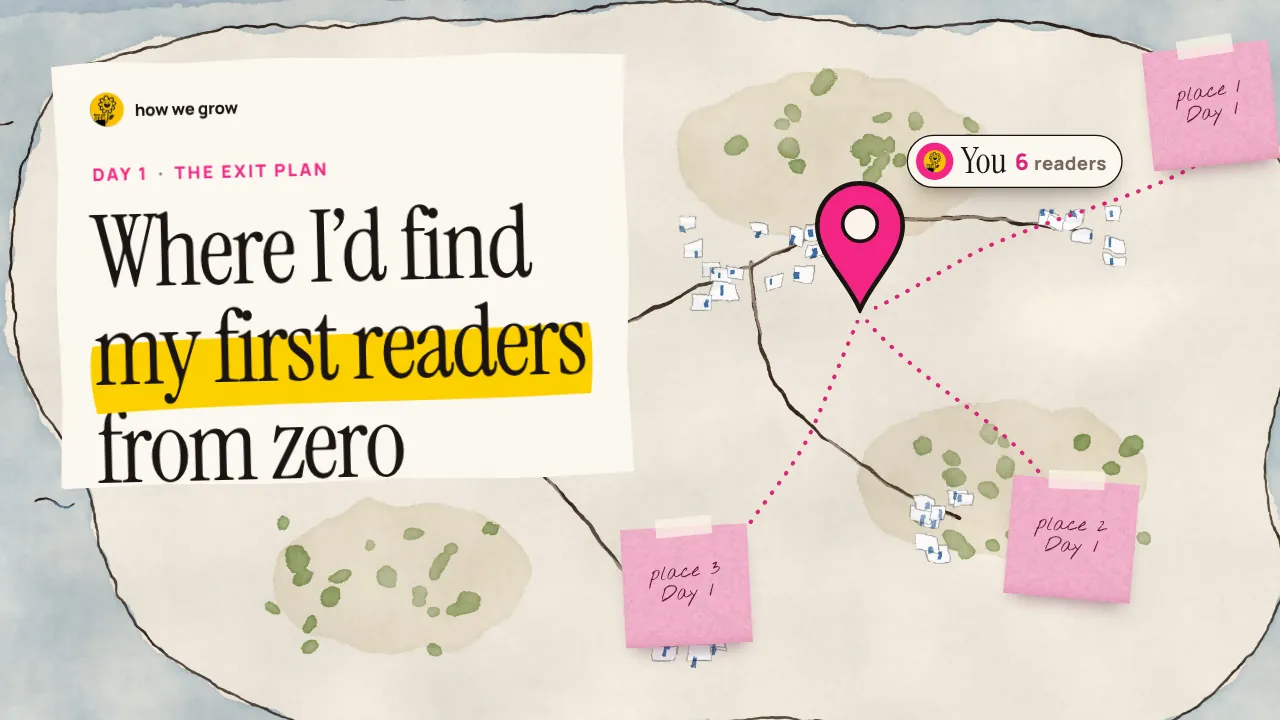
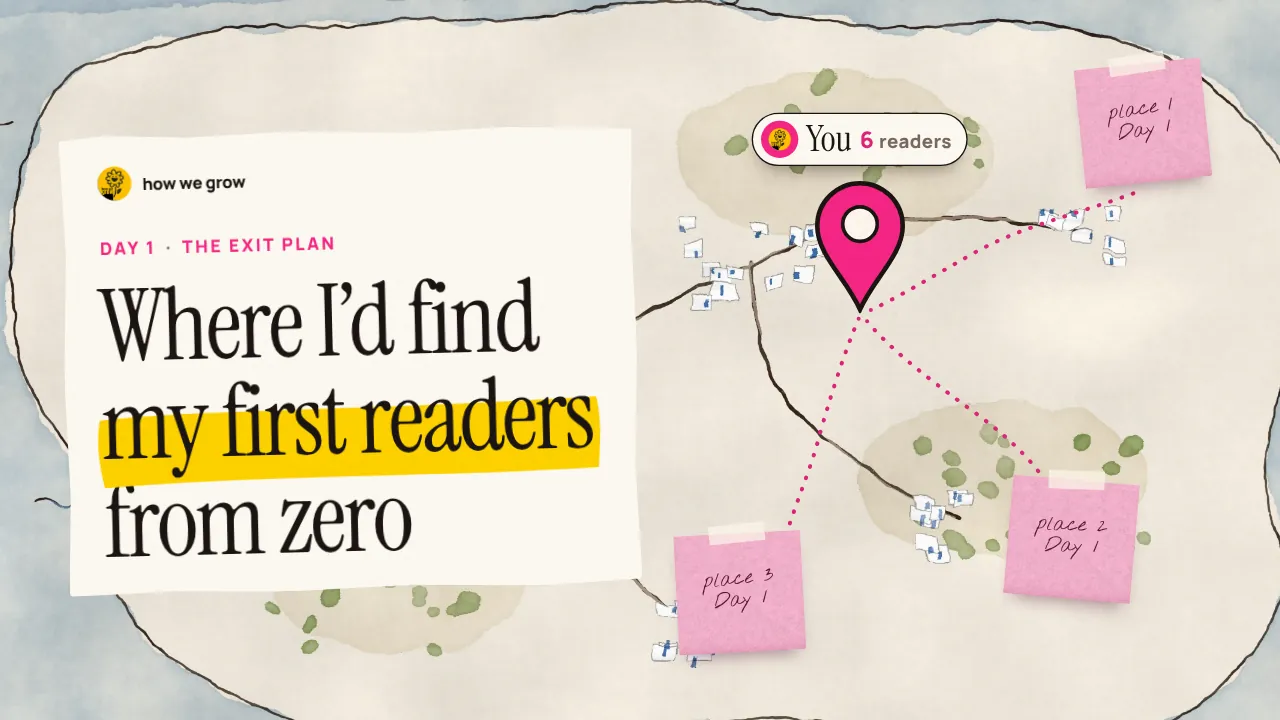
Deck: balance pass on the six slides
s4: the type block and the price tag each centred in the band between the
awning and the stall counter, the tag bigger and in from the edge (96 px
margins), the 'three more' note tucked under it with its arrow now visible.
s1: the legend card fits its headline with even padding and is centred; note 1
inside the margin; the flag sits above the pin and unrolls with it (it used to
arrive three seconds late). s2: the room 20 px lower so the chairs clear the
headline; a taller flip chart fills the empty wall at the right margin. s6: the
envelope (and its postmark and flight target) off the bottom edge to 96 px
margins. s3 and s5 unchanged. Stills re-exported.

Claude-Session: https://claude.ai/code/session_01MxqKXt8jC4twN2icxWpMeU

diff --git a/deck/s1.html b/deck/s1.html
@@ -9,7 +9,7 @@
    island reads "You · 0 readers"; three routes lead in from three places she only names live (pink notes); readers
    walk in along them and the pin counts them. Layout: the map, full bleed; the headline on a map-legend card. */
 .map{position:absolute;left:-120px;top:-70px;width:2160px;height:auto;transform-origin:62% 42%}
-.card{position:absolute;left:84px;top:84px;width:860px;height:640px;z-index:5;background:#FFFBF3;border-radius:6px;transform:rotate(-1.4deg);
+.card{position:absolute;left:96px;top:195px;width:860px;height:690px;z-index:5;background:#FFFBF3;border-radius:6px;transform:rotate(-1.4deg);
   box-shadow:0 2px 0 rgba(26,20,18,.05),0 34px 70px -30px rgba(60,40,25,.55);
   clip-path:polygon(0 1%,8% 0,22% .8%,40% 0,61% .9%,78% .2%,100% 1.2%,99.4% 22%,100% 48%,99.2% 74%,100% 99%,82% 100%,60% 99.2%,37% 100%,18% 99.3%,0 100%,.6% 78%,0 52%,.8% 26%)}
 .card .wm{position:absolute;left:56px;top:46px}
@@ -19,7 +19,7 @@
 .routes{position:absolute;inset:0;width:1920px;height:1080px;z-index:3;overflow:visible;pointer-events:none}
 .route{fill:none;stroke:#E0247A;stroke-width:6;stroke-linecap:round;stroke-dasharray:1 17}
 .pin{position:absolute;z-index:6;left:0;top:0;width:150px;height:205px;transform-origin:50% 100%}
-.flag{position:absolute;z-index:6;left:0;top:0;display:flex;align-items:center;gap:12px;background:#FFFBF3;border:2.5px solid #1A1412;border-radius:999px;padding:10px 22px 10px 12px;box-shadow:0 18px 30px -16px rgba(60,40,25,.6);white-space:nowrap;transform-origin:0 50%}
+.flag{position:absolute;z-index:6;left:0;top:0;display:flex;align-items:center;gap:12px;background:#FFFBF3;border:2.5px solid #1A1412;border-radius:999px;padding:10px 22px 10px 12px;box-shadow:0 18px 30px -16px rgba(60,40,25,.6);white-space:nowrap;transform-origin:50% 100%}
 .flag i{width:56px;height:56px;border-radius:50%;background:#F72585;display:grid;place-items:center}
 .flag i img{width:34px;height:34px}
 .flag b{font-family:'Instrument Serif',serif;font-weight:400;font-size:54px;line-height:1}
@@ -55,11 +55,11 @@ DECK.start(function (D) {
   var $ = D.$, $$ = D.$$, hA = $('#hA');
   D.setHeadline(hA, { width: 750, top: 214, max: 150 });
   /* where things are, in stage px: her pin, and the three places (on the island's far villages) */
-  var PIN = [1290, 470], PL = [[1690, 250], [1600, 840], [1050, 900]], NOTE = [[1712, 70], [1520, 720], [930, 790]];
-  var R = ['M1790 250 C1700 300 1560 330 1460 380 C1390 420 1340 450 1300 468', 'M1610 820 C1590 720 1520 660 1450 610 C1390 566 1330 520 1296 476', 'M1080 880 C1100 790 1180 730 1220 640 C1250 570 1270 520 1288 478'];
+  var PIN = [1290, 470], PL = [[1690, 250], [1600, 840], [1050, 900]], NOTE = [[1610, 96], [1520, 720], [1010, 800]];
+  var R = ['M1700 290 C1620 320 1530 340 1460 380 C1390 420 1340 450 1300 468', 'M1610 820 C1590 720 1520 660 1450 610 C1390 566 1330 520 1296 476', 'M1160 890 C1170 800 1210 730 1230 650 C1250 580 1270 520 1288 478'];
   R.forEach(function (d, i) { $('#r' + (i + 1)).setAttribute('d', d) });
   NOTE.forEach(function (p, i) { gsap.set('#n' + (i + 1), { x: p[0], y: p[1], rotation: [-6, 5, -3][i] }) });
-  gsap.set('#pin', { x: PIN[0] - 75, y: PIN[1] - 205 }); gsap.set('#flag', { x: PIN[0] + 70, y: PIN[1] - 268 });
+  gsap.set('#pin', { x: PIN[0] - 75, y: PIN[1] - 205 }); gsap.set('#flag', { x: PIN[0] - $('#flag').offsetWidth / 2, y: PIN[1] - 205 - 96 });
   /* six readers (two per route): a small painted figure each, in her colours */
   var cols = ['#F72585', '#FFD400', '#3C6FB0', '#F72585', '#FFD400', '#3C6FB0'], wk = $('#walkers'), h = '';
   for (var i = 0; i < 6; i++) h += '<div class="walker"><svg viewBox="0 0 30 46"><ellipse cx="15" cy="44" rx="11" ry="3" fill="rgba(60,40,25,.25)"/><path d="M5 42 C5 28 9 22 15 22 C21 22 25 28 25 42 Z" fill="' + cols[i] + '" stroke="#1A1412" stroke-width="2.4"/><circle cx="15" cy="13" r="8" fill="#F6D7BE" stroke="#1A1412" stroke-width="2.4"/></svg></div>';
@@ -78,8 +78,8 @@ DECK.start(function (D) {
   D.wordsIn(A, hA, .75); D.swipeIn(A, hA, 1.7);
   /* her pin drops in with a squash, then the flag unrolls */
   A.fromTo('#pin', { opacity: 0, y: '-=220', scaleY: 1.15, scaleX: .9 }, { opacity: 1, y: '+=220', scaleY: 1, scaleX: 1, duration: .55, ease: 'power3.in', immediateRender: false }, 1.6)
-   .to('#pin', { keyframes: { scaleY: [.78, 1.08, 1], scaleX: [1.18, .95, 1] }, duration: .45, ease: 'none' })
-   .fromTo('#flag', { opacity: 0, scaleX: .2 }, { opacity: 1, scaleX: 1, duration: .45, ease: 'back.out(1.6)', immediateRender: false }, '-=.2');
+   .to('#pin', { keyframes: { scaleY: [.78, 1.08, 1], scaleX: [1.18, .95, 1] }, duration: .45, ease: 'none' }, 2.15)
+   .fromTo('#flag', { opacity: 0, scaleX: .2, scaleY: .6 }, { opacity: 1, scaleX: 1, scaleY: 1, duration: .45, ease: 'back.out(1.6)', immediateRender: false }, 2.4);
   /* each place gets a pink note (named live on Day 1), and its route draws toward her */
   [0, 1, 2].forEach(function (i) {
     A.fromTo('#n' + (i + 1), { opacity: 0, y: '-=40', rotation: '+=14' }, { opacity: 1, y: '+=40', rotation: '-=14', duration: .6, ease: 'back.out(1.8)', immediateRender: false }, 2.5 + i * .35);

diff --git a/deck/s4.html b/deck/s4.html
@@ -7,19 +7,20 @@
 <style>
 /* Day 2, slide 2 · the price tag. Her offer's tag hangs from a Greek market awning, checked before it goes on sale:
    it swings in on its string and settles; her pencil ticks two of the five checks; three wait for Day 2.
-   Layout: one object hanging from the top edge, the headline low on the left. */
+   Layout: one object hanging from the awning; the type block and the tag share the band between the awning (y 168)
+   and the stall counter (y 960), each centred in it, with 96 px outer margins. */
 .aw{position:absolute;top:0;height:auto;z-index:6}
 .awsh{position:absolute;left:0;right:0;top:150px;height:120px;background:linear-gradient(180deg,rgba(90,40,50,.16),transparent);z-index:1}
-.wm{left:96px;top:248px}
+.wm{left:96px;top:230px}
 .mk{left:2px}
-.hang{position:absolute;left:0;top:0;width:1920px;height:1080px;z-index:4;transform-origin:1310px 168px;pointer-events:none}
+.hang{position:absolute;left:0;top:0;width:1920px;height:1080px;z-index:4;transform-origin:1190px 168px;pointer-events:none}
 .hang svg.str{position:absolute;inset:0;width:1920px;height:1080px;overflow:visible}
-.tag{position:absolute;left:1170px;top:316px;width:640px;transform-origin:102px 252px;transform:rotate(-10deg)}
+.tag{position:absolute;left:1067px;top:281px;width:720px;transform-origin:115px 283px;transform:rotate(-10deg)}
 .tag img{width:100%;height:auto}
 .tag svg.loc{position:absolute;inset:0;width:100%;height:100%;overflow:visible}
 .tick{fill:none;stroke:#D81B6E;stroke-width:4.5;stroke-linecap:round;stroke-linejoin:round;filter:url(#pencilTex)}
-.more{position:absolute;left:1380px;top:830px;z-index:5;font-family:'Nothing You Could Do',cursive;font-size:42px;color:#D81B6E;transform:rotate(-5deg);white-space:nowrap}
-.more svg{position:absolute;left:-60px;top:-70px;width:70px;height:60px;overflow:visible}
+.more{position:absolute;left:1274px;top:792px;padding-top:70px;z-index:5;font-family:'Nothing You Could Do',cursive;font-size:40px;color:#D81B6E;transform:rotate(-5deg);white-space:nowrap}
+.more svg{position:absolute;left:40px;top:0;width:70px;height:70px;overflow:visible}
 .crate{position:absolute;left:-40px;right:-40px;bottom:-30px;height:150px;z-index:2;background:repeating-linear-gradient(90deg,transparent 0 238px,rgba(58,42,34,.55) 238px 240px),linear-gradient(180deg,#DDBC90 0 18%,#C9A27A 18.5%,#C29A70);box-shadow:0 -2px 0 #3A2A22,0 -14px 30px -12px rgba(60,40,25,.4)}
 .crate:before{content:"";position:absolute;inset:0;background:url(../img/vip/paint/tx-linen.webp);opacity:.45;mix-blend-mode:multiply}
 .pen{z-index:8}
@@ -36,11 +37,11 @@
   <div class="type"><p class="mk">Day 2<i>·</i>The Exit Plan</p>
     <h1 class="hl" id="hA"><span class="ln">The pricing</span><span class="ln">check before</span><span class="ln key">it’s for sale.</span></h1></div>
   <div class="hang" id="hang">
-    <svg class="str" viewBox="0 0 1920 1080"><path d="M1310 168 C1300 300 1284 420 1276 548" fill="none" stroke="#8A6A48" stroke-width="5" stroke-linecap="round"/><circle cx="1310" cy="168" r="9" fill="#5A3A1E"/></svg>
+    <svg class="str" viewBox="0 0 1920 1080"><path d="M1190 168 C1186 300 1184 430 1182 562" fill="none" stroke="#8A6A48" stroke-width="5" stroke-linecap="round"/><circle cx="1190" cy="168" r="9" fill="#5A3A1E"/></svg>
     <div class="tag" id="tag"><img src="../img/vip/paint/dk-tagback.webp" alt="">
       <svg class="loc" viewBox="0 0 300 230"><path class="tick" id="t1" d="M98 68 L103 74 L116 56"/><path class="tick" id="t2" d="M98 98 L103 104 L116 86"/></svg></div>
   </div>
-  <p class="more" id="more"><svg viewBox="0 0 70 60"><path d="M66 56 C40 50 20 36 10 8 M10 8 L6 22 M10 8 L22 14" fill="none" stroke="#D81B6E" stroke-width="3" stroke-linecap="round"/></svg>three more, live on Day 2</p>
+  <p class="more" id="more"><svg viewBox="0 0 70 70"><path d="M12 66 C10 44 18 22 36 6 M36 6 L22 10 M36 6 L34 20" fill="none" stroke="#D81B6E" stroke-width="3" stroke-linecap="round" stroke-linejoin="round"/></svg>three more, live on Day 2</p>
   <div class="pen" id="pen"><img src="../img/vip/paint/pencil.webp" alt=""></div>
   <svg class="grain" viewBox="0 0 1920 1080" preserveAspectRatio="none"><filter id="gr"><feTurbulence type="fractalNoise" baseFrequency=".85" numOctaves="2" stitchTiles="stitch"/><feColorMatrix type="saturate" values="0"/></filter><rect width="1920" height="1080" filter="url(#gr)"/></svg>
 </div>
@@ -49,7 +50,7 @@
 <script>
 DECK.start(function (D) {
   var $ = D.$, $$ = D.$$, hA = $('#hA');
-  D.setHeadline(hA, { width: 860, top: 420, max: 170 }); $('.mk').style.top = '352px';
+  D.setHeadline(hA, { width: 860, top: 398, max: 170 }); $('.mk').style.top = '338px';
   var pen = D.Pencil($('#pen')), off = { x: 2080, y: 760 };
   pen.at(off.x, off.y, -30);
   D.hide($('#t1')); D.hide($('#t2'));

diff --git a/deck/s2.html b/deck/s2.html
@@ -15,7 +15,7 @@
 .head .wm{position:static;margin-bottom:34px}
 .head .mk{position:static;margin-bottom:14px}
 .head .hl{position:relative;top:auto}
-.scene{position:absolute;left:0;top:340px;width:2440px;height:860px;transform-origin:70% 60%}
+.scene{position:absolute;left:0;top:360px;width:2440px;height:860px;transform-origin:70% 60%}
 .scene img{position:absolute}
 .row3{opacity:.78}.row2{opacity:.9}
 .spot{position:absolute;z-index:1;width:340px;height:420px;border-radius:50%;background:radial-gradient(closest-side,rgba(255,212,0,.42),rgba(255,212,0,.16) 55%,transparent);mix-blend-mode:multiply;pointer-events:none}
@@ -23,11 +23,11 @@
 .bk img{position:static;width:100%}
 .tg{position:absolute;z-index:4;width:120px;transform-origin:8% 4%}
 .tg img{position:static;width:100%}
-.flip{position:absolute;left:2040px;top:96px;width:330px;z-index:2}
-.note{position:absolute;left:2088px;top:196px;width:236px;height:214px;z-index:4;transform:rotate(3deg);background:#F9B6D2 url(../img/vip/paint/tx-grain.webp);background-blend-mode:multiply;box-shadow:0 16px 24px -14px rgba(90,30,60,.5),inset 0 -14px 18px -12px rgba(170,40,100,.25);padding:30px 24px}
+.flip{position:absolute;left:1970px;top:-21px;width:400px;z-index:2}
+.note{position:absolute;left:2028px;top:100px;width:286px;height:259px;z-index:4;transform:rotate(3deg);background:#F9B6D2 url(../img/vip/paint/tx-grain.webp);background-blend-mode:multiply;box-shadow:0 16px 24px -14px rgba(90,30,60,.5),inset 0 -14px 18px -12px rgba(170,40,100,.25);padding:36px 29px}
 .note:before{content:"";position:absolute;left:30%;top:-13px;width:40%;height:26px;background:rgba(255,248,236,.75);transform:rotate(-3deg)}
-.note em{display:block;font-family:'Nothing You Could Do',cursive;font-style:normal;font-size:27px;line-height:1.1;color:#5A1638}
-.note i{display:block;height:16px;border-radius:3px;background:#2A2420;margin-top:14px}
+.note em{display:block;font-family:'Nothing You Could Do',cursive;font-style:normal;font-size:33px;line-height:1.1;color:#5A1638}
+.note i{display:block;height:19px;border-radius:3px;background:#2A2420;margin-top:17px}
 .note i+i{width:70%}
 </style></head>
 <body>
@@ -69,7 +69,7 @@ DECK.start(function (D) {
   A.fromTo('.head .wm, .head .mk', { opacity: 0, y: 14 }, { opacity: 1, y: 0, duration: .45, stagger: .1, immediateRender: false }, .1);
   D.wordsIn(A, hA, .3);
   /* the camera walks along the empty rows, slow in and slow out, and arrives on the two taken seats and the flip chart */
-  A.fromTo('#scene', { x: 60, scale: 1.06 }, { x: -520, scale: 1, duration: 5.4, ease: 'power2.inOut', immediateRender: false }, .2);
+  A.fromTo('#scene', { x: 60, scale: 1.06 }, { x: -546, scale: 1, duration: 5.4, ease: 'power2.inOut', immediateRender: false }, .2);
   /* the two copies that sold: a workbook set on each seat, then its SOLD tag drops and swings */
   if (!D.still) gsap.set('.spot', { opacity: 0 });
   [['#bk1', '#tg1', 2.6], ['#bk2', '#tg2', 3.5]].forEach(function (b, i) {

diff --git a/deck/s6.html b/deck/s6.html
@@ -11,9 +11,9 @@
 canvas{position:absolute;left:0;top:0;width:1920px;height:1080px;z-index:2}
 .wm{left:96px;top:118px;z-index:5}
 .type{z-index:5}
-.big{position:absolute;left:1270px;top:560px;width:540px;z-index:4}
+.big{position:absolute;left:1324px;top:556px;width:500px;z-index:4}
 .big img{width:100%;height:auto}
-.pm{position:absolute;left:1360px;top:770px;width:330px;z-index:6;transform:rotate(-9deg);mix-blend-mode:multiply}
+.pm{position:absolute;left:1407px;top:750px;width:306px;z-index:6;transform:rotate(-9deg);mix-blend-mode:multiply}
 .pm img{width:100%;height:auto}
 </style></head>
 <body>
@@ -44,7 +44,7 @@ DECK.start(function (D) {
   /* her 300: the ones nearest a point in the field, with a little noise so the group looks chosen, not cut */
   var cx = 1460, cy = 300; E.forEach(function (e) { e.d = Math.hypot(e.x - cx, (e.y - cy) * 1.25) + rnd() * 60 });
   var sorted = E.slice().sort(function (a, b) { return a.d - b.d }), P = sorted.slice(0, 300); P.forEach(function (e, i) { e.sel = 1; e.k = i });
-  var maxD = P[P.length - 1].d, T = { show: 0, ripple: 0, fly: 0 }, TGT = { x: 1545, y: 690 };
+  var maxD = P[P.length - 1].d, T = { show: 0, ripple: 0, fly: 0 }, TGT = { x: 1579, y: 676 };
   function env(x, y, r, sc, fill, stroke) { ctx.save(); ctx.translate(x, y); ctx.rotate(r); ctx.scale(sc, sc);
     ctx.fillStyle = fill; ctx.strokeStyle = stroke; ctx.lineWidth = 1.3; ctx.beginPath(); ctx.rect(-12, -8, 24, 16); ctx.fill(); ctx.stroke();
     ctx.beginPath(); ctx.moveTo(-12, -8); ctx.lineTo(0, 1.5); ctx.lineTo(12, -8); ctx.stroke(); ctx.restore() }
